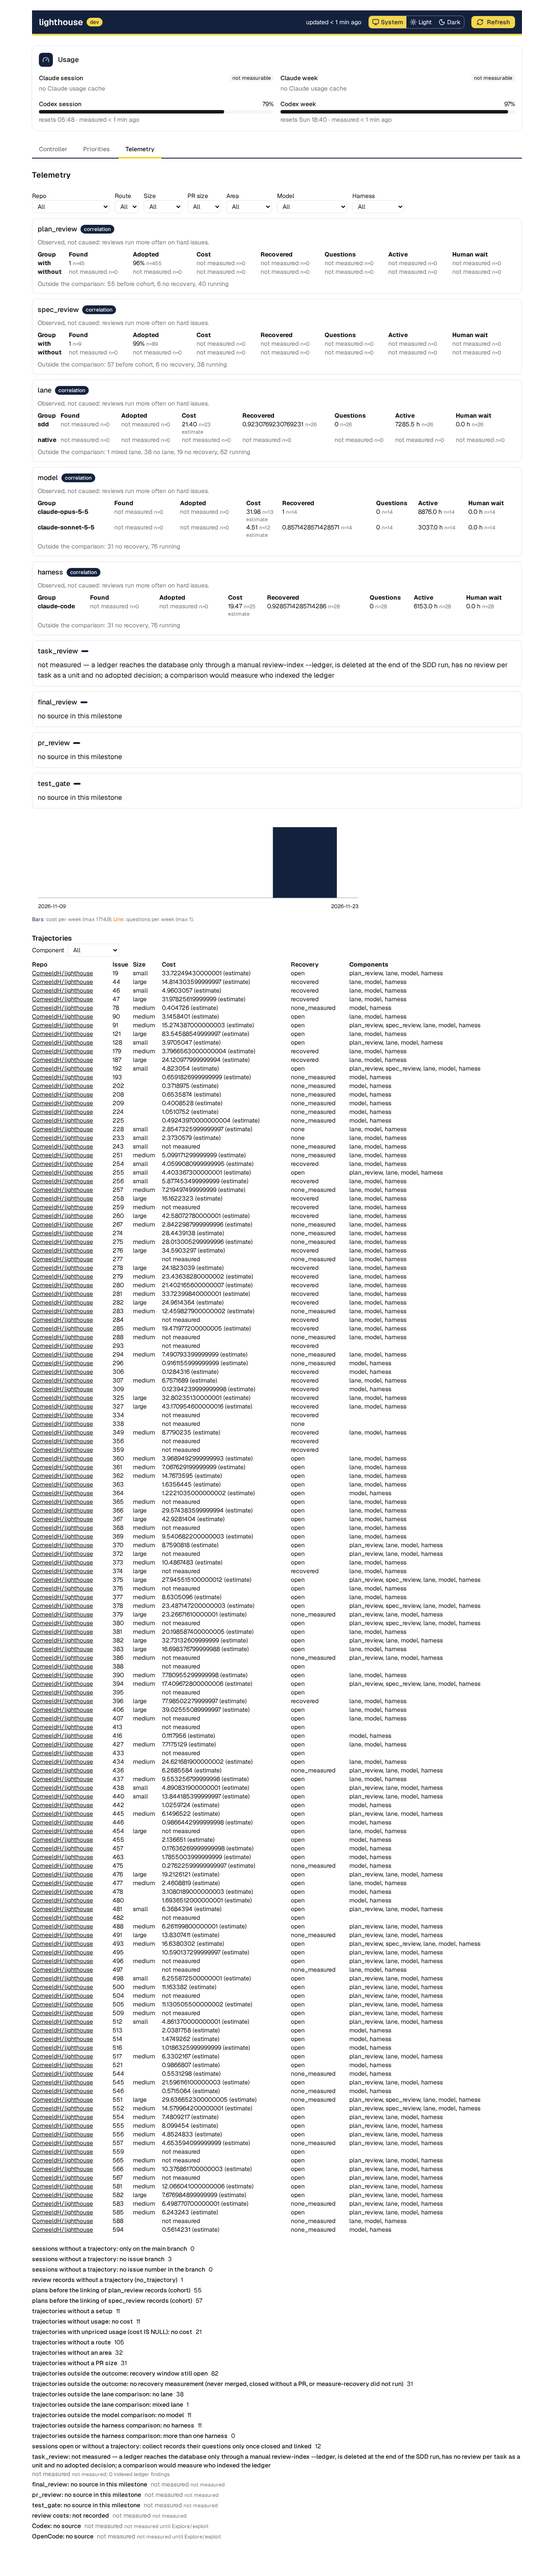
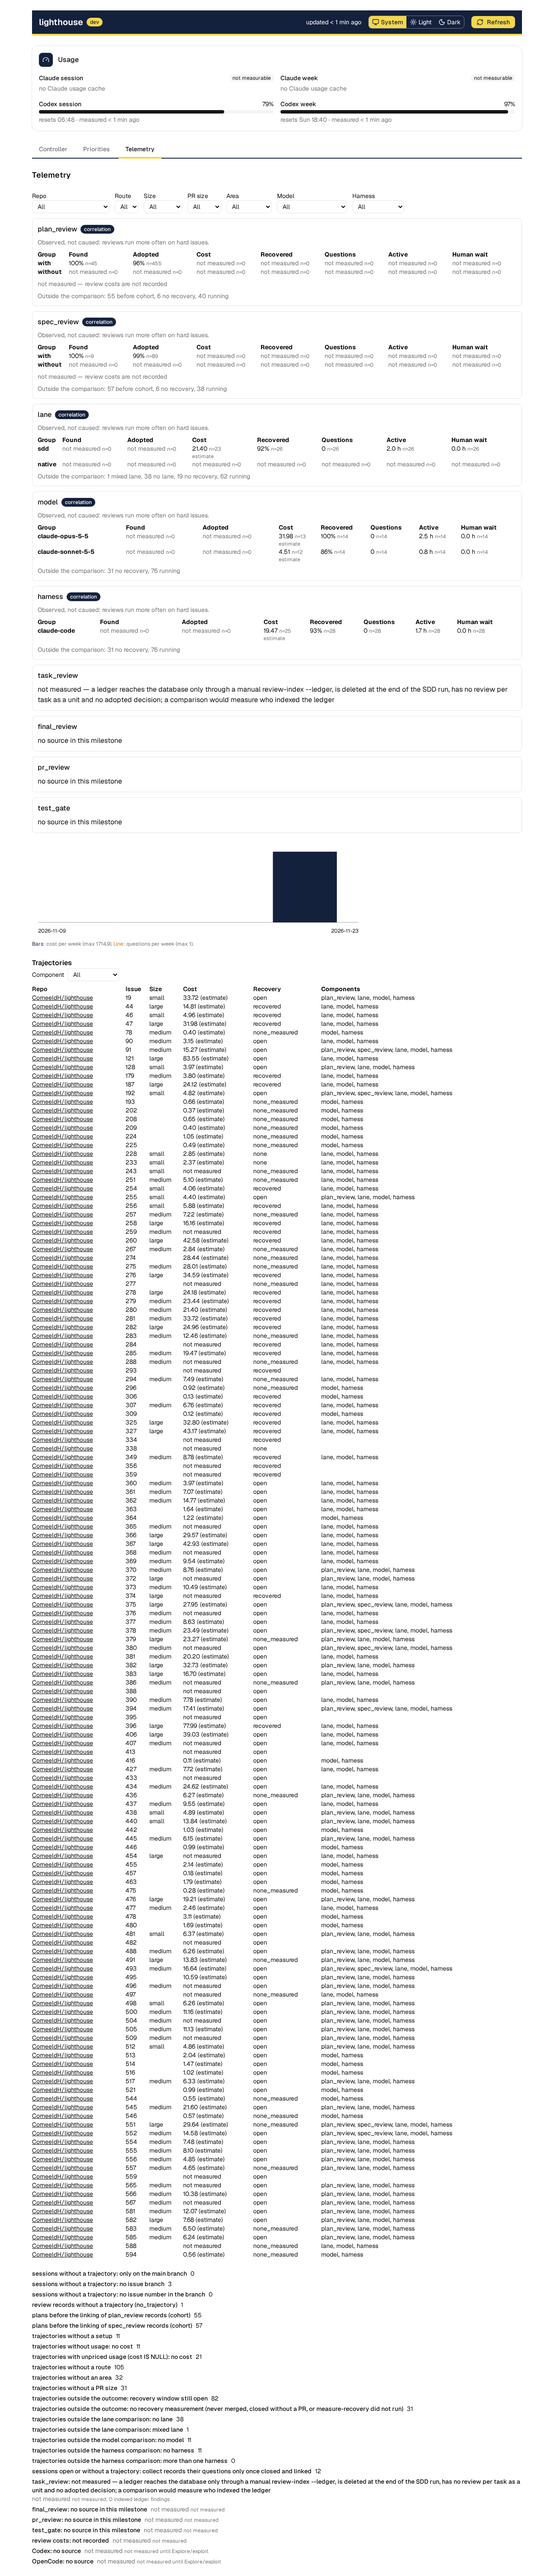
docs(telemetry): eenheden, labels en kostenweek in de UI-documentatie (#379)
telemetry-ui.md noemt de uren en percentages, dat alleen vergelijkingsblokken
een label dragen, de reviewkostenreden in het blok, en de bekende beperking
dat de weekkosten vallen in de week waarin collect ze vastlegde. Nieuwe
screenshot op de kopie van de echte database.

diff --git a/docs/telemetry-ui.md b/docs/telemetry-ui.md
@@ -16,17 +16,20 @@ volle filter geldt voor Components en Trajectories; Timeline en Coverage nemen a
 - **Components.** Eén vergelijkingsblok per onderdeel: `plan_review` en `spec_review` (met en
   zonder review), `lane` (`sdd` tegen `native`), `model` en `harness` (een groep per waarde). Per
   groep: *Found* (aandeel reviews met minstens één bevinding), *Adopted* (overgenomen bevindingen
-  van die met een besluit), *Cost* (mediaan van de trajectkosten, met `cost_kind`), *Recovered*,
-  *Questions*, *Active* en *Human wait*. Kosten en afloop tellen alleen over afgeronde trajecten:
-  minstens één herstelmeting en geen met een open venster. Elk blok draagt een label: *Observed,
-  not caused* (correlatie: de groepen zijn niet door lighthouse ingedeeld) of *Assigned by
-  lighthouse* (elke groep is zuiver ingedeeld en minstens één is een `variant:`). Onder het blok
-  staat hoeveel trajecten buiten de vergelijking vallen en waarom. `task_review`, `final_review`,
-  `pr_review` en `test_gate` hebben (nog) geen bron en staan er met hun reden.
+  van die met een besluit), *Cost* (mediaan van de trajectkosten, met `cost_kind`), *Recovered*
+  (aandeel hersteld), *Questions*, *Active* en *Human wait* (in uren; de API levert seconden).
+  Kosten en afloop tellen alleen over afgeronde trajecten: minstens één herstelmeting en geen met
+  een open venster. Elk vergelijkingsblok draagt een label: *Observed, not caused* (correlatie: de
+  groepen zijn niet door lighthouse ingedeeld) of *Assigned by lighthouse* (elke groep is zuiver
+  ingedeeld en minstens één is een `variant:`). De reviewblokken zeggen onder de tabel dat de
+  reviewkosten niet gemeten zijn. Onder het blok staat hoeveel trajecten buiten de vergelijking
+  vallen en waarom. `task_review`, `final_review`, `pr_review` en `test_gate` hebben (nog) geen
+  bron: zij staan er zonder label, alleen met hun reden.
 - **Timeline.** Per ISO-week de kosten (staven) en de mensvragen (lijn), en de trajecten die die
   week afrondden met hoeveel daarvan hersteld moesten worden. Een week vóór de eerste meting van
   een reeks is leeg, niet 0. De kosten vallen in de week van `usage.recorded_at`: de week waarin
-  `telemetry collect` ze vastlegde.
+  `telemetry collect` ze vastlegde, niet de week waarin het werk gebeurde. Een eerste `collect`
+  over oude transcripten zet dus alle eerdere kosten in één week; dat is een bekende beperking.
 - **Trajectories.** Alle trajecten, sorteerbaar op repo, issue, grootte, kosten en herstel, en te
   filteren op onderdeel. Een regel opent het detail (`#telemetry/trajectory/<id>`): runs en
   sessies met tokens en kosten per model, reviews met hun bevindingen (alleen sleutel, ernst,
